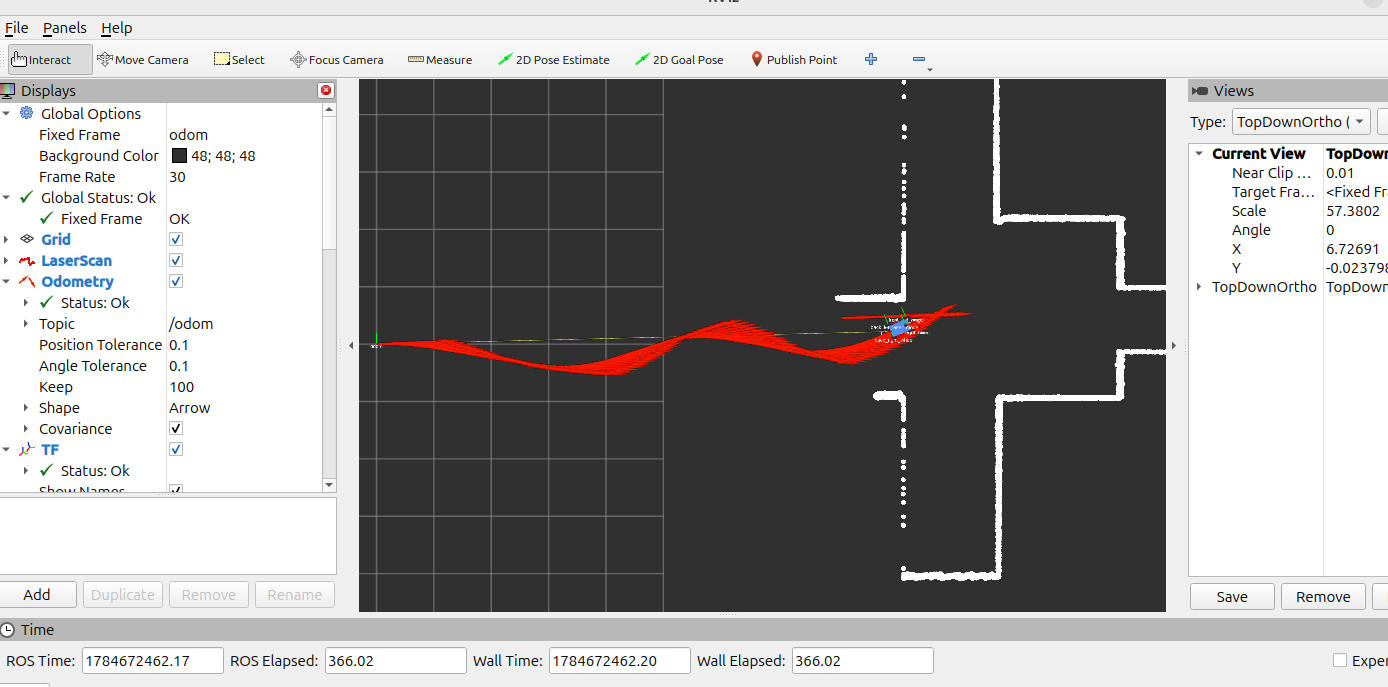
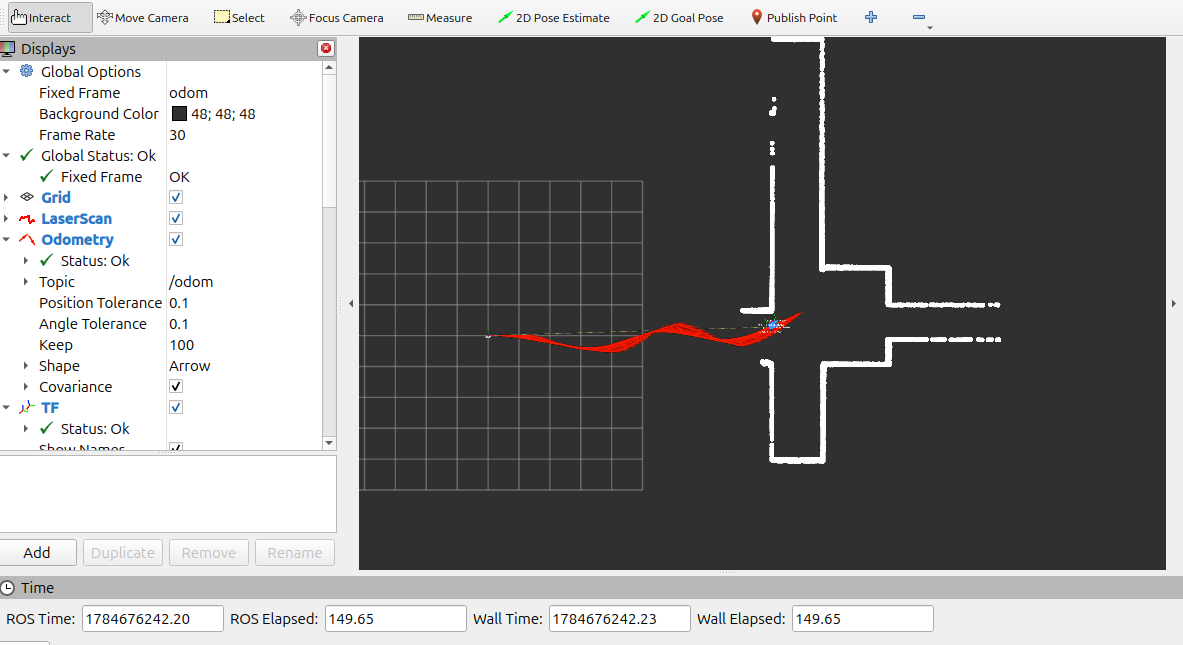
v0.1.31 -  pur-pursuit working lidar adjusted2

diff --git a/ros2_ws/src/my_f1tenth_bridge/setup.py b/ros2_ws/src/my_f1tenth_bridge/setup.py
@@ -1,6 +1,4 @@
 from setuptools import find_packages, setup
-from glob import glob
-import os
 
 package_name = "my_f1tenth_bridge"
 
@@ -10,39 +8,30 @@ setup(
     packages=find_packages(exclude=["test"]),
 
     data_files=[
-        # Register the package with the ROS 2 package index.
         (
             "share/ament_index/resource_index/packages",
             [f"resource/{package_name}"],
         ),
-
-        # Install package.xml into the package share directory.
         (
             f"share/{package_name}",
-            [
-                "package.xml",
-            ],
+            ["package.xml"],
         ),
-
-        # Install launch files so they are available after colcon build.
         (
             f"share/{package_name}/launch",
-            glob("launch/*.py"),
+            ["launch/bridge.launch.py"],
         ),
-
-        # Install configuration files.
         (
             f"share/{package_name}/config",
-            glob("config/*"),
+            ["config/sim.yaml"],
         ),
-
-        # Install URDF/Xacro assets so robot_state_publisher can load them.
         (
-            f"share/{package_name}/assets/urdf",
-            glob("assets/urdf/*"),
+            f"share/{package_name}/urdf",
+            ["urdf/racecar.urdf.xacro", "urdf/opp_racecar.xacro"],
         ),
-
-        # Install any planner path files or other plain text assets later if needed.
+        (
+            f"share/{package_name}/assets/maps",
+            ["assets/maps/levine.png"],
+        ),
     ],
 
     install_requires=[
@@ -54,10 +43,7 @@ setup(
     maintainer="Matin Afshari",
     maintainer_email="[email redacted]",
 
-    description=(
-        "Custom ROS 2 Jazzy bridge for the F1TENTH Gym simulator."
-    ),
-
+    description="Custom ROS 2 Jazzy bridge for the F1TENTH Gym simulator.",
     license="MIT",
 
     keywords=[
@@ -79,10 +65,7 @@ setup(
 
     entry_points={
         "console_scripts": [
-            # Main simulator bridge node.
             "bridge_node = my_f1tenth_bridge.bridge_node:main",
-
-            # Pure Pursuit planner node.
             "pure_pursuit_planner = my_f1tenth_bridge.planner_node:main",
         ],
     },

diff --git a/ros2_ws/src/my_f1tenth_bridge/launch/bridge.launch.py b/ros2_ws/src/my_f1tenth_bridge/launch/bridge.launch.py
@@ -19,7 +19,6 @@ def generate_launch_description():
 
     urdf_path = os.path.join(
         get_package_share_directory("my_f1tenth_bridge"),
-        "assets",
         "urdf",
         "racecar.urdf.xacro",
     )